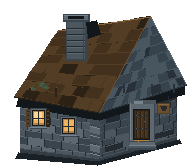
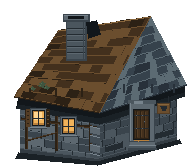
P20: strengthen roof course contrast, eave shadow and exposed timber frame on the armory

diff --git a/tools/mapforge_architecture.py b/tools/mapforge_architecture.py
@@ -231,6 +231,19 @@ def armory() -> Image.Image:
     masonry(LEFT_WALL, ARCH["stone"], ARCH["stone_lt"], ARCH["stone_dk"], 31)
     masonry(RIGHT_WALL, ARCH["stone_dk"], ARCH["stone"], ARCH["mortar"], 47)
 
+    # exposed timber frame on the left face (posts + rail + braces), the language the
+    # neighbouring townhouses already use; keeps the stone base but adds structure
+    for bx in (26, 56, 90):
+        c.line([(bx, 101), (bx, 150)], ARCH["wood_dk"], 3)
+        c.line([(bx + 1, 102), (bx + 1, 148)], ARCH["wood"], 1)
+    c.line([(21, 118), (96, 127)], ARCH["wood_dk"], 3)
+    c.line([(21, 119), (96, 128)], ARCH["wood"], 1)
+    c.line([(26, 140), (56, 132)], ARCH["wood_dk"], 2)      # diagonal brace
+    c.line([(26, 140), (56, 132)], ARCH["wood"], 1)
+    c.line([(97, 112), (176, 94)], ARCH["wood_dk"], 2)      # wall plate under the eave
+    for bx in (104, 128, 158):
+        c.line([(bx, 96), (bx, 112)], ARCH["wood_dk"], 2)
+
     # front corner quoins: alternating long/short blocks tying the two faces together
     for i, yy in enumerate(range(108, 162, 9)):
         c.poly([(90, yy), (99, yy + 2), (99, yy + 9), (90, yy + 7)],
@@ -248,16 +261,17 @@ def armory() -> Image.Image:
     # ---- roof: timber plane + slate return, both with real eave thickness ------------
     c.poly(ROOF_OUTLINE, ARCH["wood"])
     # underside band first (roof overhang shadow falling on the walls)
-    c.poly([(18, 98), (99, 112), (184, 84), (184, 94), (99, 120), (16, 106)], ARCH["shadow"])
+    c.poly([(18, 98), (99, 112), (184, 84), (184, 96), (99, 124), (16, 108)], ARCH["shadow"])
+    c.poly([(18, 104), (99, 118), (184, 92), (184, 96), (99, 124), (16, 108)], ARCH["ao"])
 
     # timber plane: eave edge -> ridge, courses parallel to the ridge
     _shingle_plane(c, (14, 96), (99, 112), (58, 30), (150, 16),
-                   [ARCH["wood_dk"], ARCH["wood"], ARCH["wood_md"]], ARCH["wood_dk"], 7,
-                   rows=8, shingle=13)
+                   [ARCH["wood_dk"], ARCH["wood"], ARCH["wood_lt"]], ARCH["wood_dk"], 7,
+                   rows=10, shingle=12)
     # hip return on the right: triangle from the front eave corner up to the ridge end
     _shingle_plane(c, (99, 112), (186, 84), (150, 16), (150, 16),
-                   [ARCH["slate_dk"], ARCH["slate"], ARCH["slate_lt"]], ARCH["slate_dk"], 11,
-                   rows=8, shingle=7)
+                   [ARCH["slate_dk"], ARCH["slate"], ARCH["slate_hi"]], ARCH["slate_dk"], 11,
+                   rows=9, shingle=8)
 
     # ridge cap and the crisp silhouette edges
     c.line([RIDGE[0], RIDGE[1]], ARCH["wood_hi"], 2)
